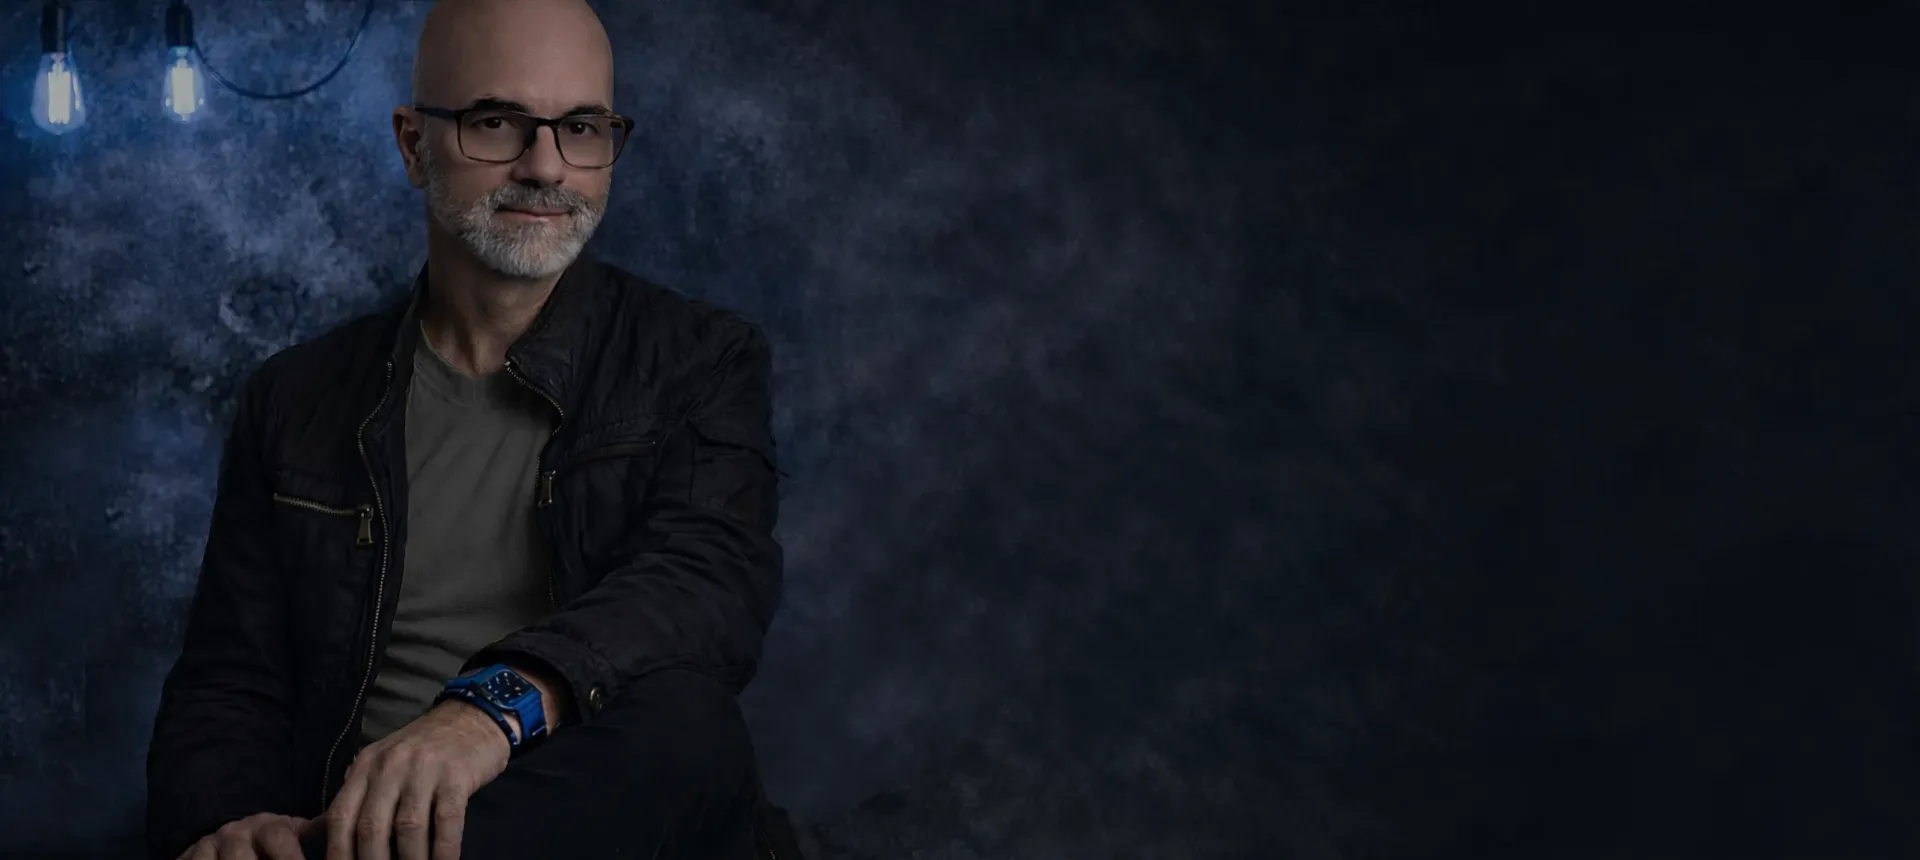
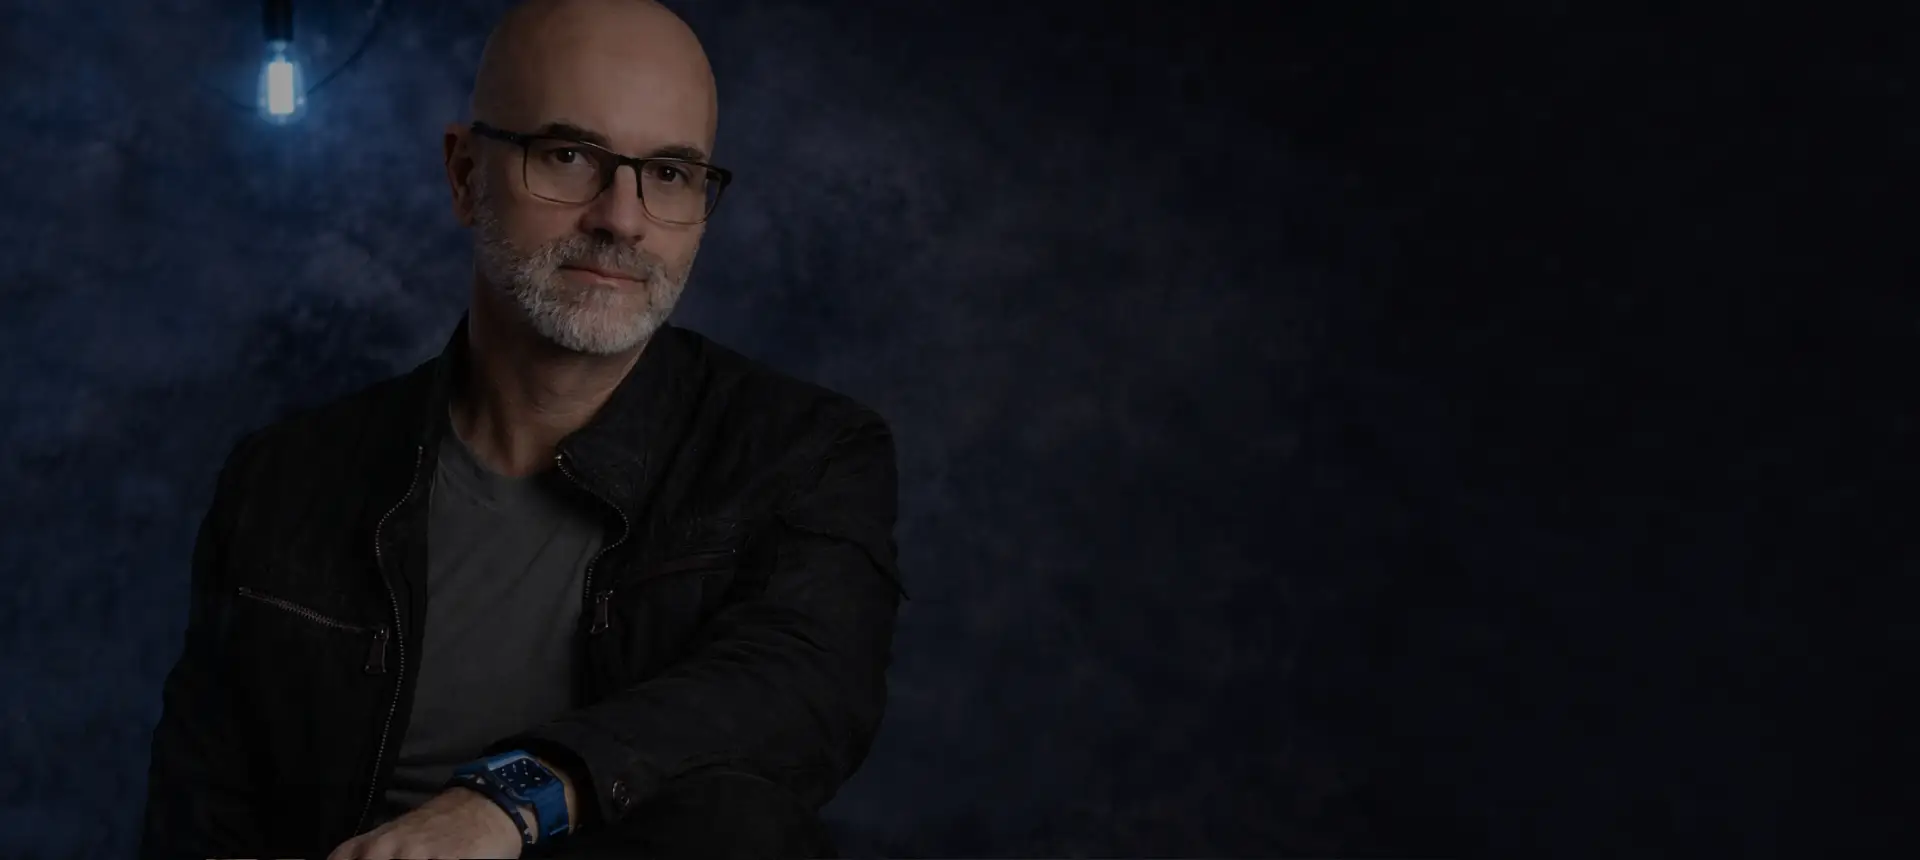
ajustes pontuais

diff --git a/index.html b/index.html
@@ -11,6 +11,7 @@
         href="https://fonts.googleapis.com/css2?family=Figtree:ital,wght@0,300..900;1,300..900&family=Newsreader:ital,opsz,wght@0,6..72,200..800;1,6..72,200..800&display=swap"
         rel="stylesheet">
     <link rel="stylesheet" href="style.css">
+    <link rel="stylesheet" href="https://cdnjs.cloudflare.com/ajax/libs/font-awesome/7.0.1/css/all.min.css" integrity="sha512-2SwdPD6INVrV/lHTZbO2nodKhrnDdJK9/kg2XD1r9uGqPo1cUbujc+IYdlYdEErWNu69gVcYgdxlmVmzTWnetw==" crossorigin="anonymous" referrerpolicy="no-referrer" />
 </head>
 
 <body>
@@ -19,8 +20,21 @@
     <main class="conteudo">
         <header class="header">
             <nav class="menu">
-                <a href="#" data-section="sobre">QUEM SOU</a>
-                <a href="#" data-section="portfolio">PORTFÓLIO</a>
+
+                <div class="logo_menu">
+                    <img src="imagens/logos/lr-sem fundo.png" alt="">
+                </div>
+
+                <div class="nav_bar">
+                    <a href="#" data-section="sobre">QUEM SOU</a>
+                    <a href="#" data-section="portfolio">PORTFÓLIO</a>
+                </div>
+
+                <div class="social">
+                    <i class="fa-brands fa-whatsapp"></i>
+                    <i class="fa-brands fa-instagram"></i>
+                    <i class="fa-brands fa-linkedin"></i>
+                </div>
             </nav>
         </header>
         <section class="hero">

diff --git a/style.css b/style.css
@@ -17,9 +17,9 @@ body {
 .bg {
     position: fixed;
     inset: 0;
-    background-image: url(imagens/Hero_luis_R.webp);
+    background-image: url(imagens/Hero_luis_LRS.webp);
     background-size: cover;
-    background-position: center;
+    background-position: bottom;
     z-index: -2;
 }
 
@@ -39,8 +39,16 @@ body {
 
 .menu {
     display: flex;
-    justify-content: center;
-    gap: 32px;
+    justify-content: space-between;
+    align-items: center;
+       max-width: 1400px;
+       margin: 0 auto;
+    padding: 0px 25px;
+}
+
+.nav_bar {
+    display: flex;
+    gap: 20px;
 }
 
 .menu a {
@@ -56,6 +64,24 @@ body {
 .menu a.ativo {
     opacity: 1;
 }
+
+.logo_menu img {
+    width: 180px;
+    height: auto;
+    display: block;
+}
+
+.social i {
+    font-size: 1.4rem;
+    opacity: 0.6;
+    transition: 0.3s;
+    cursor: pointer;
+}
+
+.social i:hover {
+    opacity: 1;
+}
+
 
 /* HERO (NOME + CARGO) */
 .hero {
